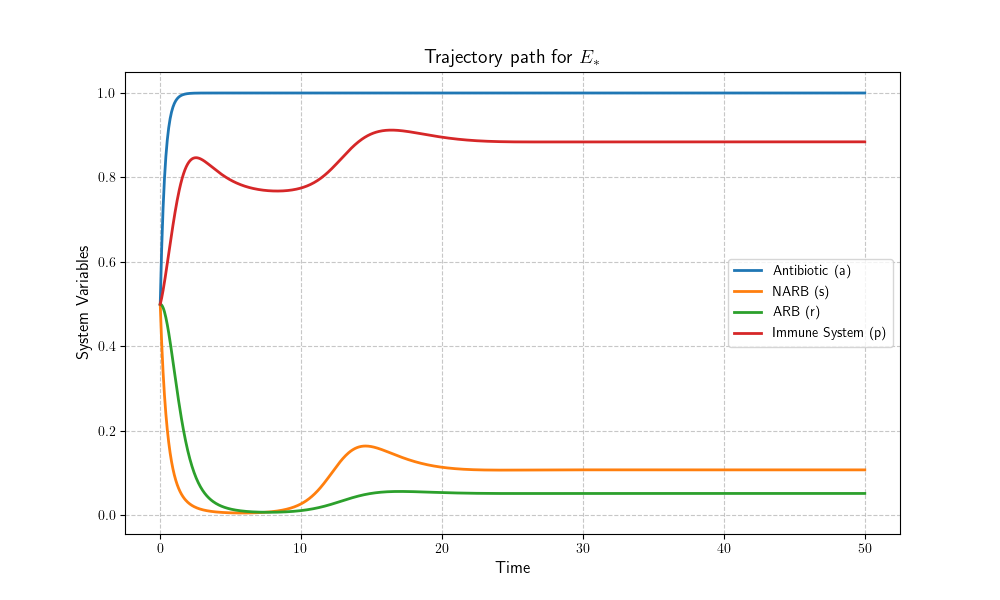
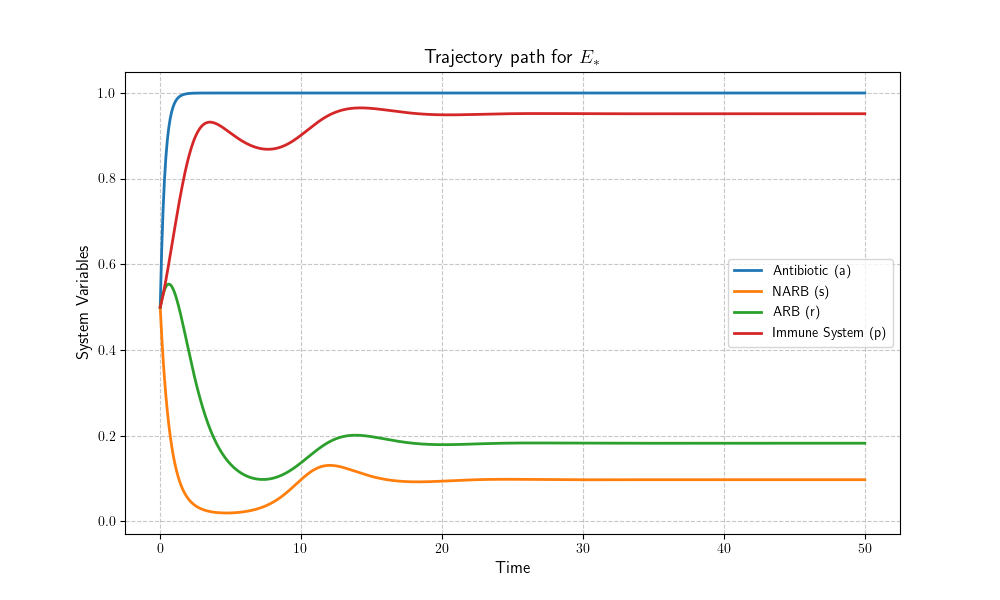
numbers fixed in table

diff --git a/Report/Num_Comp.tex b/Report/Num_Comp.tex
@@ -8,16 +8,16 @@ Our mathematical model sheds light on the intricate dynamics of antibiotic resis
 		\hline
 		\textbf{$E_1$} & \textbf{$E_+$} & \textbf{$E_-$} & \textbf{$E_*$} \\ 
 		\hline
-		$\alpha = 1$ & $\alpha = 0.5$ & $\alpha = 1$ & $\alpha = 0.2$ \\
-		$\beta = 0.1$ & $\beta = 1$ & $\beta = 0.1$ & $\beta = 0.3$ \\
-		$\gamma = 1$ & $\gamma = 2$ & $\gamma = 1$ & $\gamma = 1$ \\
-		$\eta_s = 1$ & $\eta_s = 3$ & $\eta_s = 4$ & $\eta_s = 2$ \\
-		$\eta_r = 0.3$ & $\eta_r = 0.5$ & $\eta_r = 1$ & $\eta_r = 2.5$ \\
-		$\mu = 3$ & $\mu = 3$ & $\mu = 3$ & $\mu = 3$ \\
+		$\alpha = 1$ 	& $\alpha = 0.2$ 	& $\alpha = 1$ 	& $\alpha = 0.1$ \\
+		$\beta = 0.1$ 	& $\beta = 0.3$ 		& $\beta = 0.1$ & $\beta = 1.7$ \\
+		$\gamma = 1$ 	& $\gamma = 1$ 		& $\gamma = 1$ 	& $\gamma = 1$ \\
+		$\eta_s = 1$ 	& $\eta_s = 2$ 		& $\eta_s = 4$ 	& $\eta_s = 3$ \\
+		$\eta_r = 0.3$ 	& $\eta_r = 2.5$ 	& $\eta_r = 1$ 	& $\eta_r = 0.5$ \\
+		$\mu = 3$ 		& $\mu = 3$ 		& $\mu = 3$ 	& $\mu = 3$ \\
 		\hline
 	\end{tabular}
 \end{table}
-
+0.1, 1.4, 1, 3, 0.5, 3
 
 Initially, we establish the presence of a positively invariant set, indicating a natural constraint on growth due to limited resources, as expressed in the logistic growth term.
 
